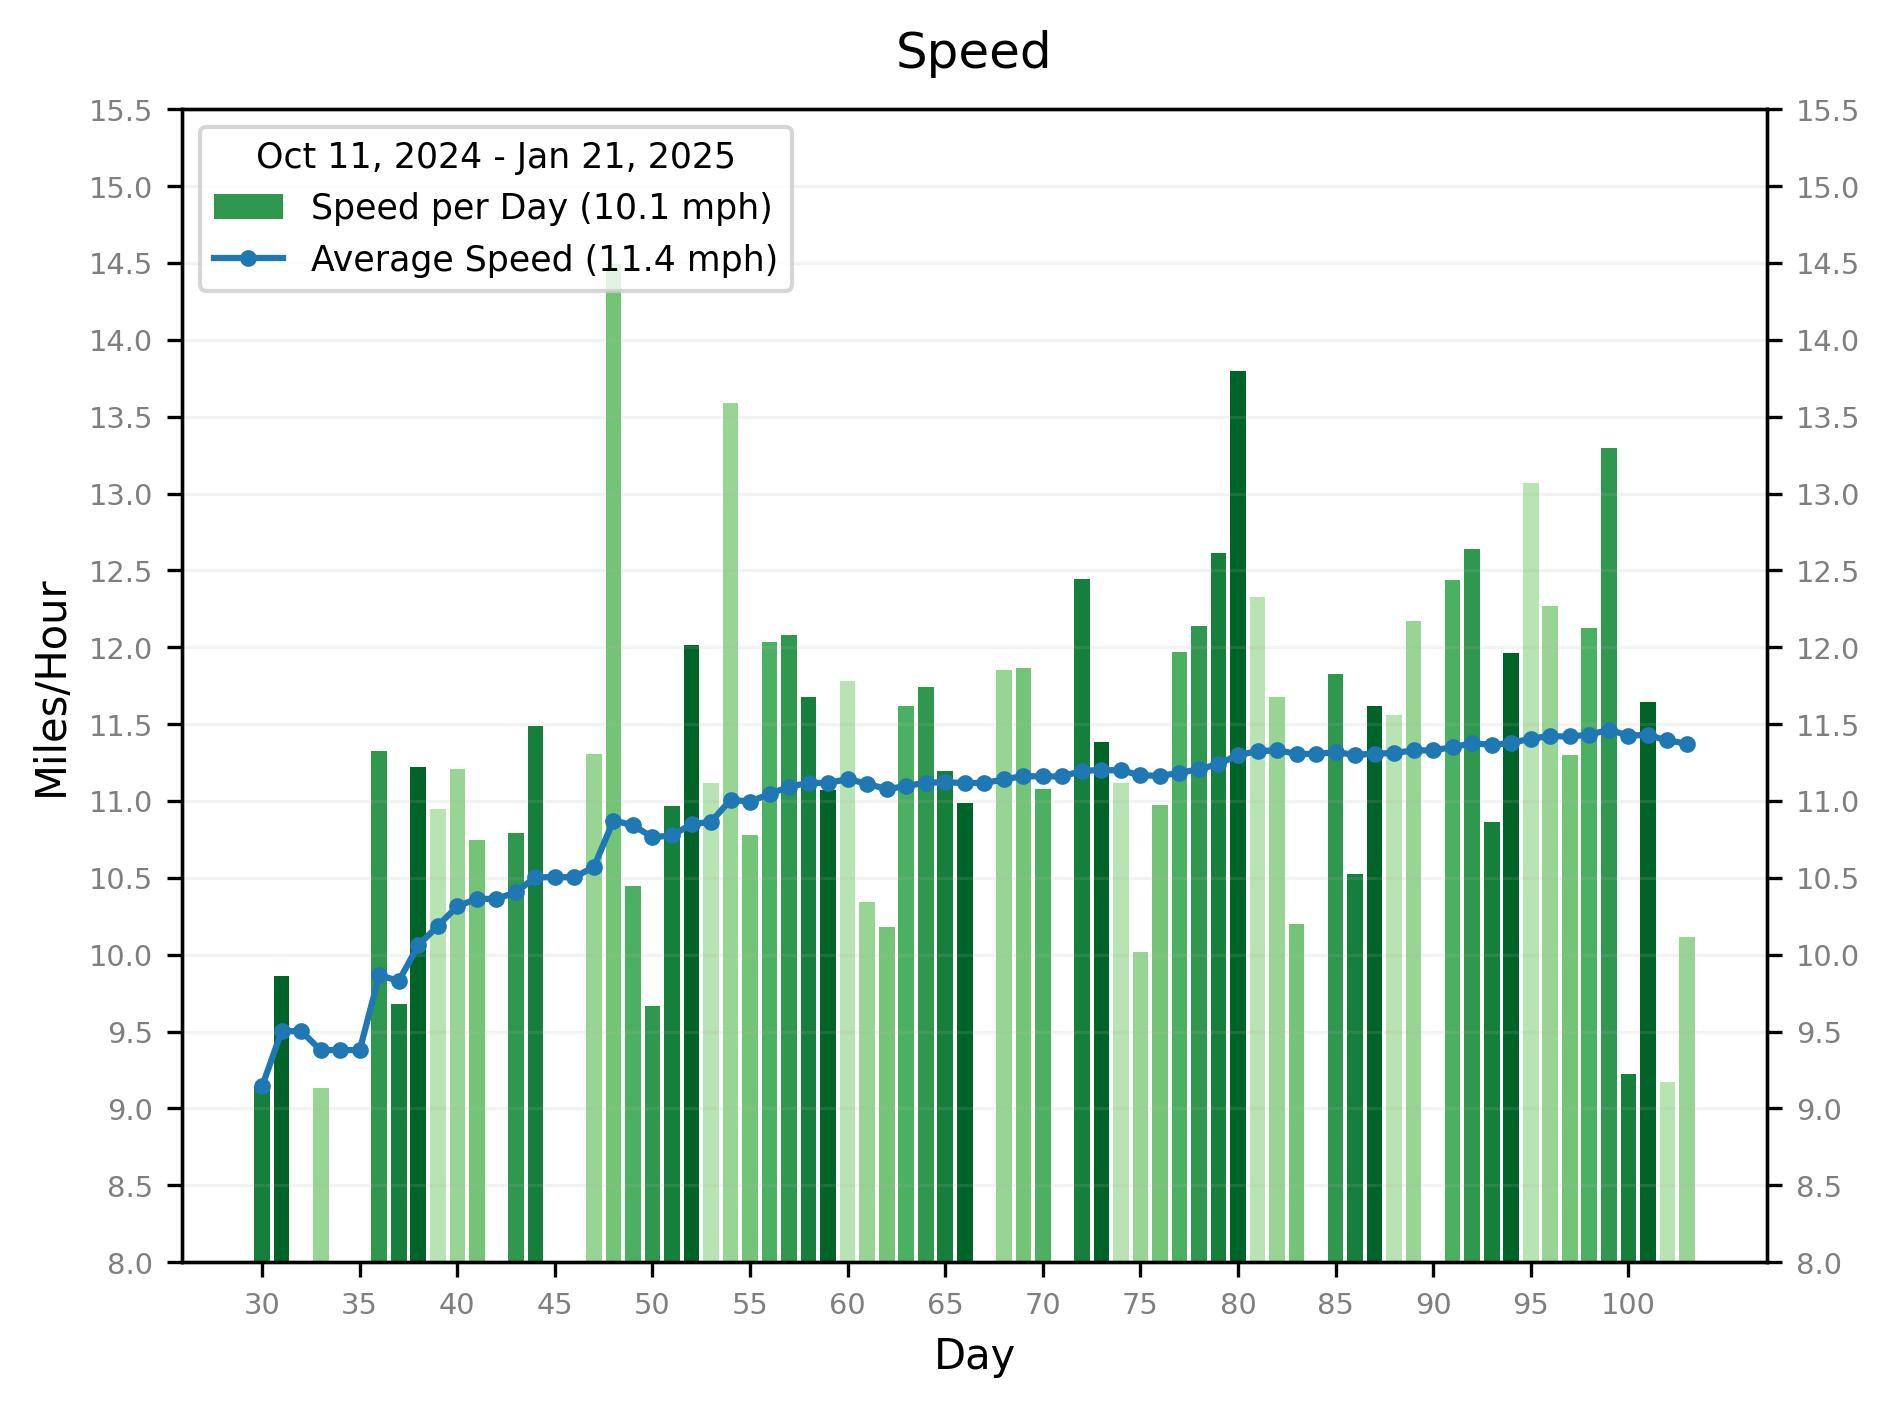
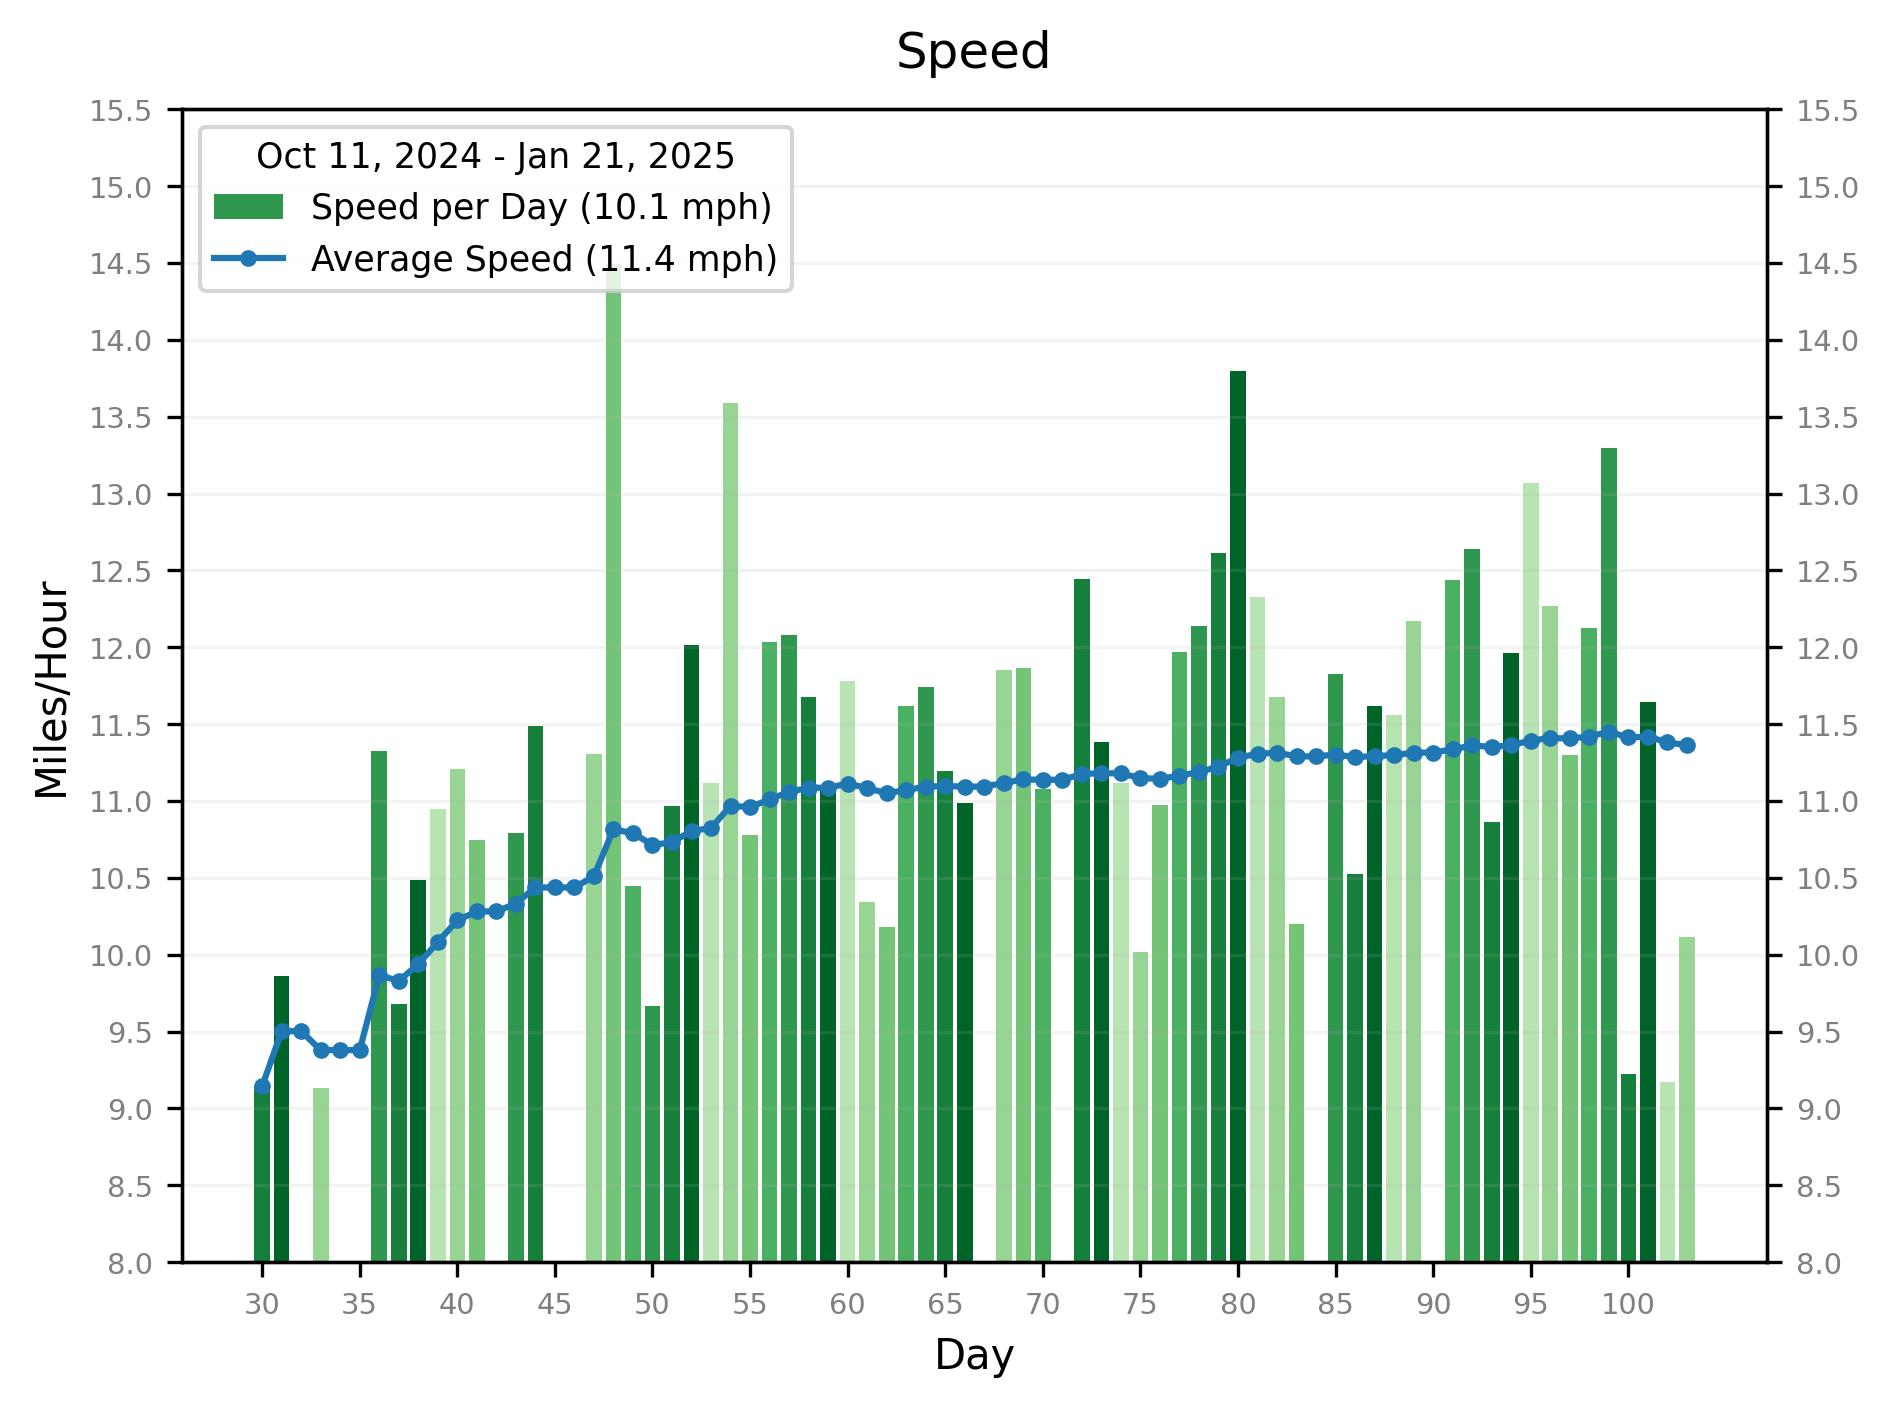
factor elev gain rate into performance index

Changed region(s): [[0.2185, 0.5, 0.9053, 0.6875]]

diff --git a/src/biking/graph/performance.py b/src/biking/graph/performance.py
@@ -28,33 +28,40 @@ class PerformanceGraph(Graph):
         distance_y = self.stats["data"]["distance_per_day"]
         speed_y = self.stats["data"]["speed_per_day"]
         elevation_y = self.stats["data"]["elevation_gain_per_day"]
+        time_y = [d / s if s != 0 else 0 for d, s in zip(distance_y, speed_y)]
+        elevation_rate_y = [e / t if t != 0 else 0 for e, t in zip(elevation_y, time_y)]
+
+        d_factor = 1.0
+        s_factor = 2.0
+        e_factor = 3.0
+        er_factor = 1.0
+        max_pi_scale = 10.0
 
         distance = stats(distance_y)
         speed = stats(speed_y)
         elevation = stats(elevation_y)
+        elevation_rate = stats(elevation_rate_y)
 
         new_low = 0
         distance_y = [(n - distance.min) / distance.range if n > distance.min else new_low for n in distance_y]
         speed_y = [(n - speed.min) / speed.range if n > speed.min else new_low for n in speed_y]
         elevation_y = [(n - elevation.min) / elevation.range if n > elevation.min else new_low for n in elevation_y]
-
-        d_factor = 1.0
-        s_factor = 2.0
-        e_factor = 3.0
-        max_pi_scale = 10.0
+        elevation_rate_y = [(n - elevation_rate.min) / elevation_rate.range if n > elevation_rate.min else new_low for n in elevation_rate_y]
 
         performance_y = [
-            0 if s == 0 else (d * d_factor + e * e_factor + s * s_factor)
-            for d, s, e in zip(distance_y, speed_y, elevation_y)
+            0 if s == 0 else (d * d_factor + s * s_factor + e * e_factor + er * er_factor)
+            for d, s, e, er in zip(distance_y, speed_y, elevation_y, elevation_rate_y)
         ]
+
         max_pi = max(performance_y)
         performance_y = [n / max_pi * max_pi_scale for n in performance_y]
 
         d_factor_y = [d * d_factor / max_pi * max_pi_scale for d in distance_y]
         s_factor_y = [s * s_factor / max_pi * max_pi_scale for s in speed_y]
         e_factor_y = [e * e_factor / max_pi * max_pi_scale for e in elevation_y]
+        er_factor_y = [er * er_factor / max_pi * max_pi_scale for er in elevation_rate_y]
 
-        return performance_y, (d_factor_y, s_factor_y, e_factor_y)
+        return performance_y, (d_factor_y, s_factor_y, e_factor_y, er_factor_y)
 
     def avg_performance_index(self, performance_y):
         avg_performance_y = []
@@ -88,9 +95,13 @@ class PerformanceGraph(Graph):
         ax1.grid(axis="y", linestyle="-", alpha=0.15)
         self.add_scale(ax1, lower_limit, upper_limit, scale),
 
-        d_factor_y, s_factor_y, e_factor_y = factors_y
+        d_factor_y, s_factor_y, e_factor_y, er_factor_y = factors_y
 
-        bar = ax1.bar(x, e_factor_y, bottom=np.array(d_factor_y) + np.array(s_factor_y), color="orangered")
+        bar = ax1.bar(x, er_factor_y, bottom=np.array(d_factor_y) + np.array(s_factor_y) + np.array(e_factor_y), color="orangered")
+        self.handles.append(bar)
+        self.labels.append(f"Elevation Gain Rate Component ({er_factor_y[-1]:0.1f})")
+
+        bar = ax1.bar(x, e_factor_y, bottom=np.array(d_factor_y) + np.array(s_factor_y), color="coral")
         self.handles.append(bar)
         self.labels.append(f"Elevation Gain Component ({e_factor_y[-1]:0.1f})")
 

diff --git a/src/biking/stats.py b/src/biking/stats.py
@@ -44,6 +44,9 @@ class Statistics:
         daily_data = self.input_data.get_daily_data()
         # for num, record in enumerate(daily_data, 1):
         #     print("@@@", num, record["ymd"])
+        #     if num in (30, 38):
+        #         import json
+        #         print(json.dumps(record, indent=4))
 
         if self.params.report_days is not None and not self.params.factor_all_days:
             daily_data = daily_data[-self.params.report_days:]

diff --git a/TODO.md b/TODO.md
@@ -1,12 +1,14 @@
 # TODO
 
 ### High Priority
-_None_
+- Tweak the Performance Index calculation so high speed for a long time scores higher than the same speed for less time.
 
 ### Medium Priority
+- Make sure show_only_tracked_days still works.
+- Reorg files so output/ contains only generated files.
 - Fix the default journal file for project and update README.
 - Define all configuration values in one place.
-- Make sure show_only_tracked_days still works.
+- Generate page mapping day number to date as mitigation for adding better date labels..
 - Add date labels somehow instead of day number, for example:
 
       | | | | | | | | | | | | | | | | | | | | | | | | | | | | | | | | | | | | | | | |
